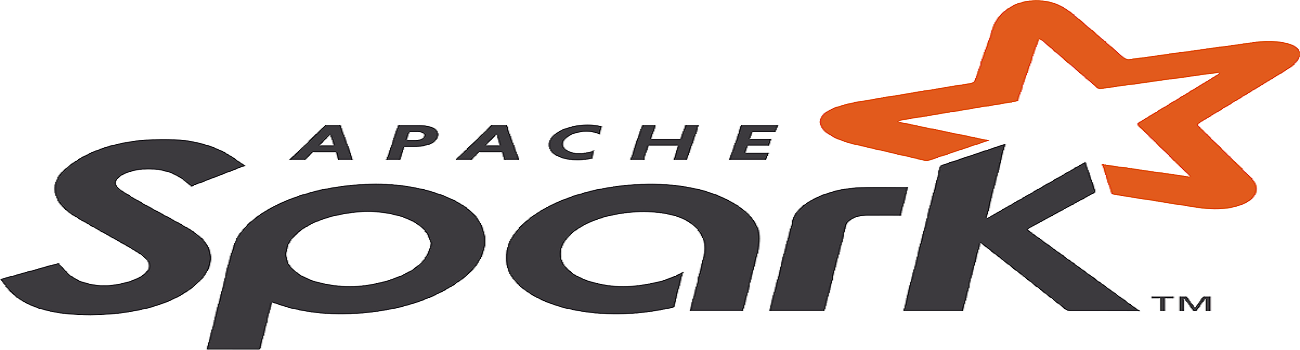
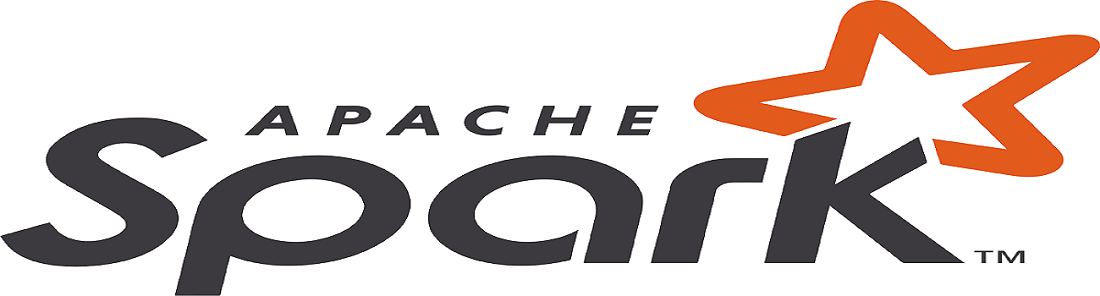
Spark Streaming 내용 업로드

diff --git a/_posts/2018-05-30-spark_streaming_config.md b/_posts/2018-05-30-spark_streaming_config.md
@@ -5,7 +5,7 @@ date: 2018-05-30 13:05:12
 categories: Spark Streaming
 author : Jaesang Lim
 tag: Spark Streaming
-cover: "/assets/spark_log.png"
+cover: "/assets/spark.png"
 ---
 ### Spark Streaming Configuration
 
@@ -15,6 +15,7 @@ cover: "/assets/spark_log.png"
 
 - 사실상, Yarn 과 Spark 모두 long-running 서비스를 위해 디자인 된 것이 아님
 
+</hr>
 #### 1. Fault Tolerance를 위한 Configuration
 > - 부분 실패가 있더라도, 계속 작업할 수 있게 !! 
 > 
@@ -48,6 +49,8 @@ cover: "/assets/spark_log.png"
 > - 장기 실행 작업의 경우 작업을 실패하기 전에 어플리케이션의 최대 실패 횟수를 늘림
 > - default : 4
 
+</hr>
+
 #### 2. Performance를 위한 Configuration
 
 ##### 2_1. spark.speculation=true
@@ -58,6 +61,7 @@ cover: "/assets/spark_log.png"
 - ** 개인적으로, speculation=true로 했을 때 큰 장점이 없어서 False로 처리했음 **
 
 
+</hr>
 #### 3. Graceful Stop 
 
 - 지금 처리하려고 들고 있는 데이터 까지 다 처리하고 작업을 종료하자
@@ -159,6 +163,8 @@ cover: "/assets/spark_log.png"
    }
 ```
 
+</hr>
+
 #### 4. YARN Configuration
 
 - spark.yarn.driver.memoryOverhead=512  ( driver-memory < 5GB )
@@ -166,6 +172,8 @@ cover: "/assets/spark_log.png"
 - default : min( 384, executorMemory * 0.10 ) 
 - 10G / 5G 보다 작을 시 , 늘리자
 
+
+</hr>
 #### 5. Spark Delay Scheduling
 
 - spark.locality.wait = 10ms
@@ -178,6 +186,8 @@ cover: "/assets/spark_log.png"
 - - 10ms로 줄이면 처리 기반 3배 단축 
 - Kafka Streaming일 때는  큰 차이를 못 느낄 수 있음 
 
+
+</hr>
 
 #### 6. BackPressure
 
@@ -205,6 +215,23 @@ cover: "/assets/spark_log.png"
 - 처음 배치는 큰 사이즈로 들어올 수 있기 떄문에 이 것을 Smooth 하게 처리하는 Config 있음
 	- spark.streaming.backpressure.initalRate 조정 
 	- spark.streaming.kafka.maxRatePerPartition 조정 ( Kafka ) 
+
+
+</hr>
+
+#### 6. CMS GC
+
+- GC 관련 일시 중지를 일관성있게 유지하려면 CMS GC를 사용하는 것이 좋음
+- CMS GC는 시스템의 전반적인 처리 처리량을 감소시키는 것는 경향이 있음 
+	- Background Thread가 지속적으로 GC 대상을 Masking 하기 때문이라고 생각힘 
+- 하지만 보다 일관된 배치 처리 시간을 달성하기 위해 사용하는 것이 좋음
+
+이렇게 주면 끝~
+```
+	....
+    --conf spark.driver.extraJavaOptions=-XX:+UseConcMarkSweepGC \
+    --conf spark.executor.extraJavaOptions=-XX:+UseConcMarkSweepGC \
+```
 
 
 

diff --git a/_posts/2018-05-30-spark_streaming_with_kafka.md b/_posts/2018-05-30-spark_streaming_with_kafka.md
@@ -5,7 +5,7 @@ date: 2018-05-30 13:05:12
 categories: Spark Streaming
 author : Jaesang Lim
 tag: Spark Streaming
-cover: "/assets/spark_log.png"
+cover: "/assets/spark.png"
 ---
 
 ### Spark Streaming With Kafka Direct API
@@ -14,17 +14,11 @@ cover: "/assets/spark_log.png"
 ### 로직 설명 
 `
  KafkaUtils.createDirectStream[String, String](
-`
-`
       sparkStreamContext,
-     `
-     `
       PreferConsistent,
+      Subscribe[String, String](ESTAT_TOPIC, kafkaParams) )
       `
-      `Subscribe[String, String](ESTAT_TOPIC, kafkaParams) )
-      `
-      
-      
+
 #### 1. createDirectStream
 - Return Type : InputDStream[ConsumerRecord[K, V]] using DirectKafkaInputDStream
 `new DirectKafkaInputDStream[K, V](ssc, locationStrategy, consumerStrategy, perPartitionConfig)`
